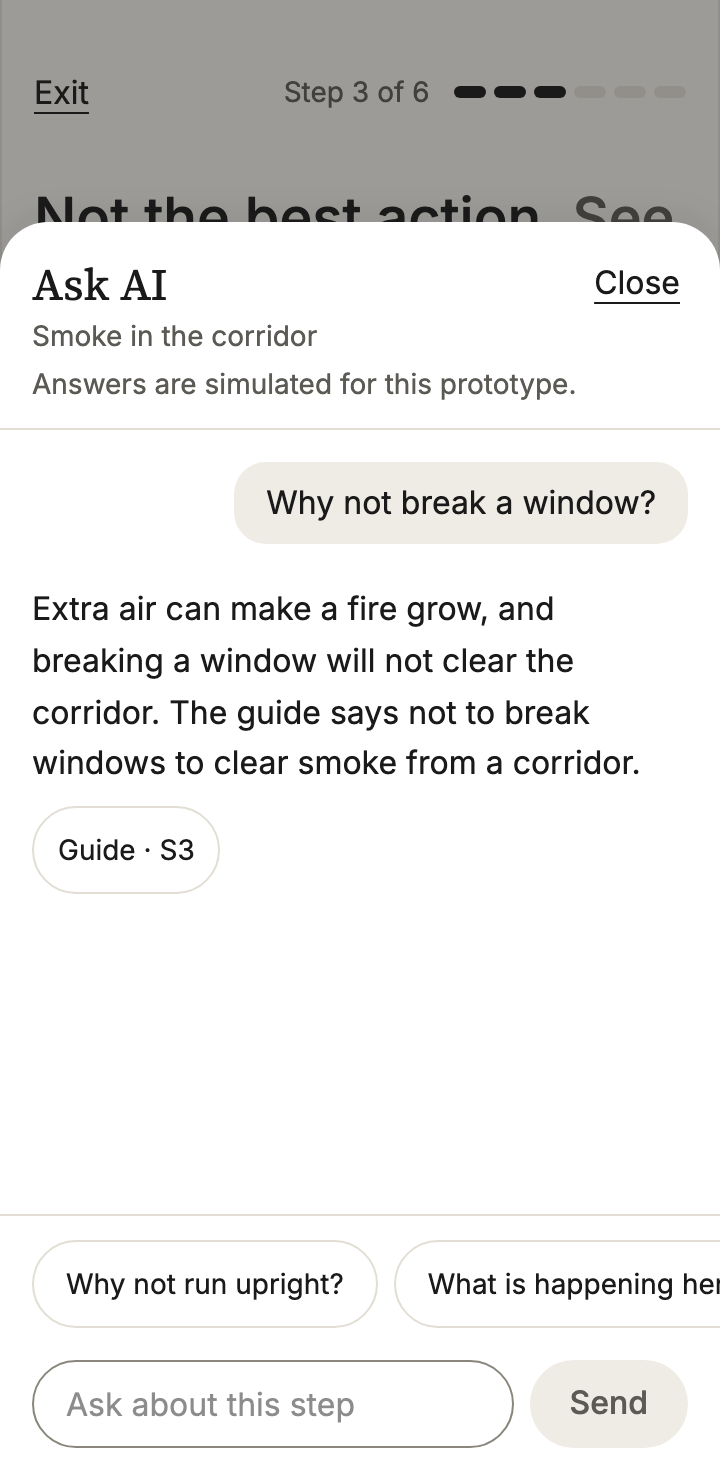
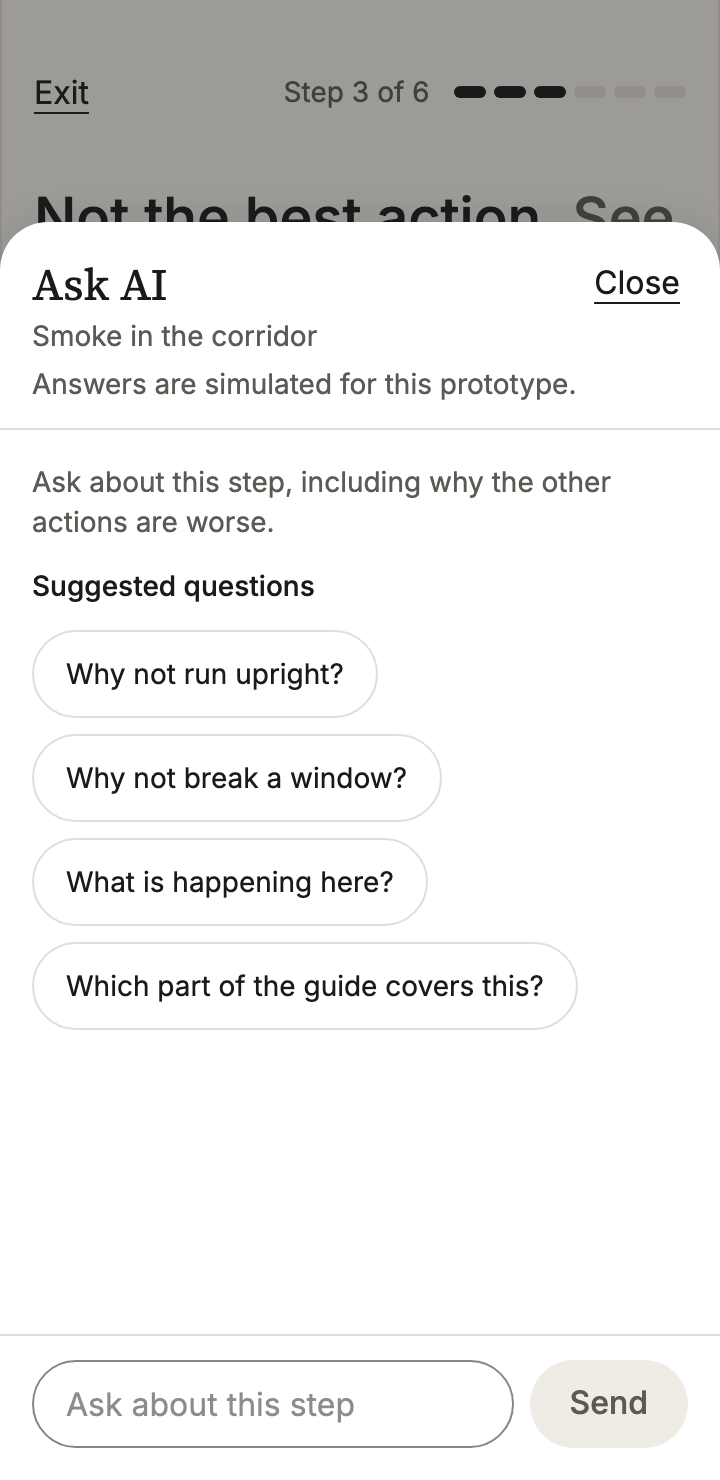
feat: show Ask AI suggestions in full until the first question
On first open the suggested questions fill the empty conversation, wrapped
in full. After the first question the rest move to one scrolling row above
the text field.

diff --git a/components/AskAi/AskAi.tsx b/components/AskAi/AskAi.tsx
@@ -11,7 +11,7 @@ import {
   replyToChip,
   suggestedChips,
 } from "@/lib/chat";
-import type { ChatPhase, ChatReply } from "@/lib/chat";
+import type { ChatChip, ChatPhase, ChatReply } from "@/lib/chat";
 import type { Step } from "@/lib/scenario";
 
 export type ChatMessage =
@@ -70,6 +70,32 @@ function Typing() {
         />
       ))}
     </div>
+  );
+}
+
+/** A suggested question. Wrapped in full in the empty chat, on one line in the scrolling row. */
+function ChipButton({
+  chip,
+  disabled,
+  onAsk,
+  wrap = false,
+}: {
+  chip: ChatChip;
+  disabled: boolean;
+  onAsk: (question: { text: string; chipId?: string }) => void;
+  wrap?: boolean;
+}) {
+  return (
+    <button
+      type="button"
+      disabled={disabled}
+      onClick={() => onAsk({ text: chip.question, chipId: chip.id })}
+      className={`min-h-11 rounded-full border border-border bg-surface px-4 py-2 text-left text-sm text-text hover:bg-surface-muted disabled:cursor-not-allowed disabled:text-text-secondary ${
+        wrap ? "max-w-full" : "shrink-0 whitespace-nowrap"
+      }`}
+    >
+      {chip.question}
+    </button>
   );
 }
 
@@ -135,11 +161,19 @@ function ChatPanel({
         className="flex min-h-0 flex-1 flex-col gap-5 overflow-y-auto px-4 py-4"
       >
         {messages.length === 0 && (
-          <p className="text-sm text-text-secondary">
-            {chat.phase === "decide"
-              ? "Ask about the situation or the guide. Until you check your answer, I explain the material but do not say which action is right."
-              : "Ask about this step, including why the other actions are worse."}
-          </p>
+          <div className="flex flex-col gap-3">
+            <p className="text-sm text-text-secondary">
+              {chat.phase === "decide"
+                ? "Ask about the situation or the guide. Until you check your answer, I explain the material but do not say which action is right."
+                : "Ask about this step, including why the other actions are worse."}
+            </p>
+            <p className="text-sm font-medium">Suggested questions</p>
+            <div className="flex flex-col items-start gap-2">
+              {chips.map((chip) => (
+                <ChipButton key={chip.id} chip={chip} disabled={typing} onAsk={onAsk} wrap />
+              ))}
+            </div>
+          </div>
         )}
         {messages.map((message, index) =>
           message.role === "trainee" ? (
@@ -160,18 +194,14 @@ function ChatPanel({
       </div>
 
       <div className="flex flex-col gap-3 border-t border-border px-4 pt-3 pb-[max(1rem,env(safe-area-inset-bottom))]">
-        {chips.length > 0 && (
-          <div className="-mx-4 flex gap-2 overflow-x-auto px-4 pb-1">
+        {messages.length > 0 && chips.length > 0 && (
+          <div
+            role="group"
+            aria-label="More suggested questions"
+            className="-mx-4 flex gap-2 overflow-x-auto px-4 pb-1"
+          >
             {chips.map((chip) => (
-              <button
-                key={chip.id}
-                type="button"
-                disabled={typing}
-                onClick={() => onAsk({ text: chip.question, chipId: chip.id })}
-                className="min-h-11 shrink-0 rounded-full border border-border bg-surface px-4 py-2 text-sm whitespace-nowrap text-text hover:bg-surface-muted disabled:cursor-not-allowed disabled:text-text-secondary"
-              >
-                {chip.question}
-              </button>
+              <ChipButton key={chip.id} chip={chip} disabled={typing} onAsk={onAsk} />
             ))}
           </div>
         )}
